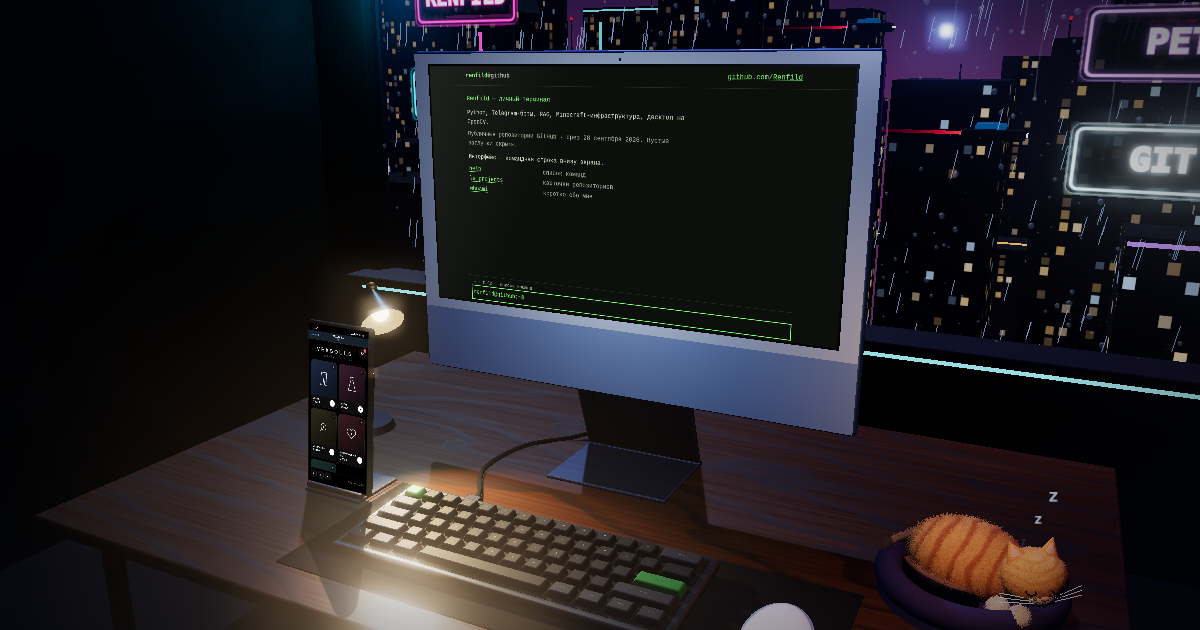
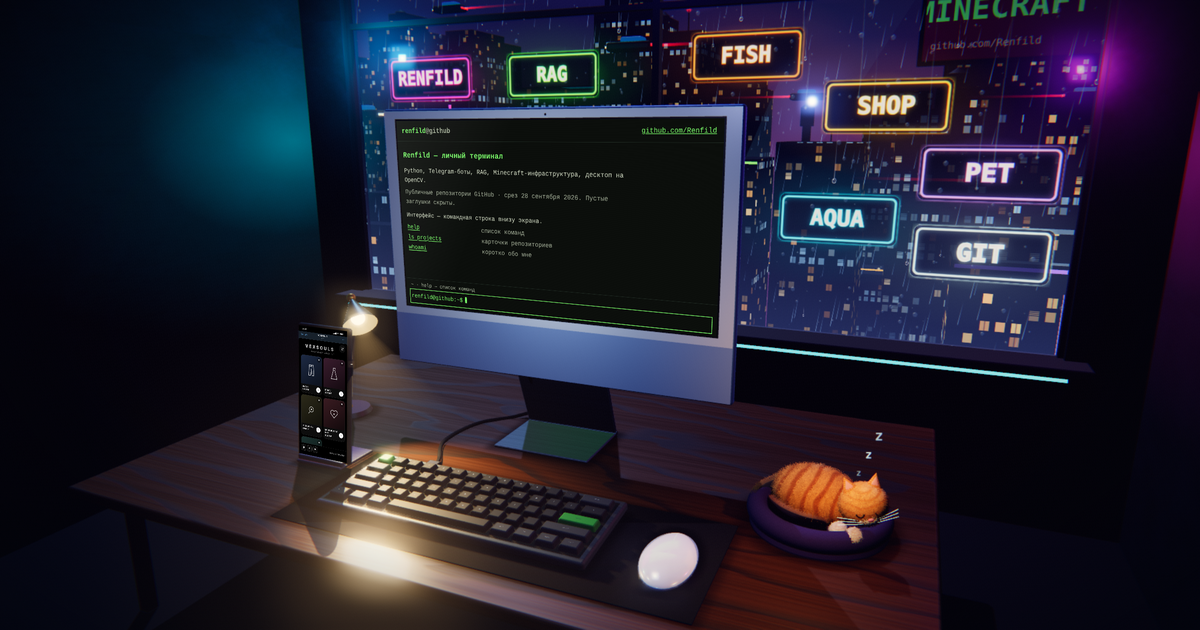
Add a visible lamp beam and refresh the link preview
- The desk lamp now throws a faint cone of light in the air, brightest across
  the middle of its body and fading at the rim and towards the desk. It follows
  the lamp switch and the party colours.
- og.png is a fresh capture of the new opening shot with the terminal booted
  (rendered at 2x and downscaled to 1200x630): all seven signs, the mouse and
  the cat are in frame, where the old image cut PET and GIT off.
- Drops an unused variable.

Claude-Session: https://claude.ai/code/session_01XFbWiYC1f8yGnwHrMLP4XU

diff --git a/js/world.js b/js/world.js
@@ -251,7 +251,6 @@ function boot() {
   };
   const face = new THREE.Vector3();
   const toCam = new THREE.Vector3();
-  const quat = new THREE.Quaternion();
   const corner = new THREE.Vector3();
   const screenBox = new THREE.Box3();
   const frustum = new THREE.Frustum();
@@ -1577,6 +1576,47 @@ function addLamp(scene, pickables) {
   group.add(spot, target);
   spot.target = target;
 
+  // The beam in the air: a hollow cone from the bulb to the pool of light. It is brightest across the middle of
+  // its body and fades to nothing at its rim and towards the desk, so no hard edge ever shows.
+  const beamLength = bulb.position.distanceTo(aim) * 0.98;
+  const beamMaterial = new THREE.ShaderMaterial({
+    transparent: true,
+    depthWrite: false,
+    blending: THREE.AdditiveBlending,
+    uniforms: { uColor: { value: new THREE.Color(0xffd6a0) }, uLevel: { value: 0 } },
+    vertexShader: /* glsl */ `
+      varying vec3 vNormal;
+      varying vec3 vView;
+      varying float vAxis;
+      void main() {
+        vec4 view = modelViewMatrix * vec4(position, 1.0);
+        vNormal = normalize(normalMatrix * normal);
+        vView = normalize(-view.xyz);
+        // 0 at the bulb, 1 at the far end (ConeGeometry maps v = 1 at the apex).
+        vAxis = 1.0 - uv.y;
+        gl_Position = projectionMatrix * view;
+      }
+    `,
+    fragmentShader: /* glsl */ `
+      uniform vec3 uColor;
+      uniform float uLevel;
+      varying vec3 vNormal;
+      varying vec3 vView;
+      varying float vAxis;
+      void main() {
+        float facing = abs(dot(normalize(vNormal), normalize(vView)));
+        float body = pow(facing, 2.2);
+        float along = pow(1.0 - vAxis, 1.4) * smoothstep(0.0, 0.1, vAxis);
+        gl_FragColor = vec4(uColor * (0.5 * body * along * uLevel), 1.0);
+      }
+    `,
+  });
+  const beam = new THREE.Mesh(new THREE.ConeGeometry(Math.tan(0.4) * beamLength, beamLength, 48, 1, true), beamMaterial);
+  beam.position.copy(bulb.position).addScaledVector(dir, beamLength / 2);
+  beam.quaternion.copy(turn);
+  beam.raycast = () => {};
+  parts.push(beam);
+
   const hit = new THREE.Mesh(
     new THREE.CylinderGeometry(0.22, 0.22, 1.05, 12),
     new THREE.MeshBasicMaterial({ visible: false }),
@@ -1598,6 +1638,9 @@ function addLamp(scene, pickables) {
     const goal = state.on ? 1 : 0;
     state.level += (goal - state.level) * (reduceMotion ? 1 : Math.min(1, dt * 9));
     spot.intensity = 14 * state.level;
+    beamMaterial.uniforms.uLevel.value = state.level;
+    // The party colours the spot; the beam follows it.
+    beamMaterial.uniforms.uColor.value.copy(spot.color);
     bulbMat.emissiveIntensity = 0.05 + 3 * state.level;
     innerMat.emissiveIntensity = 0.02 + 0.6 * state.level;
   });
